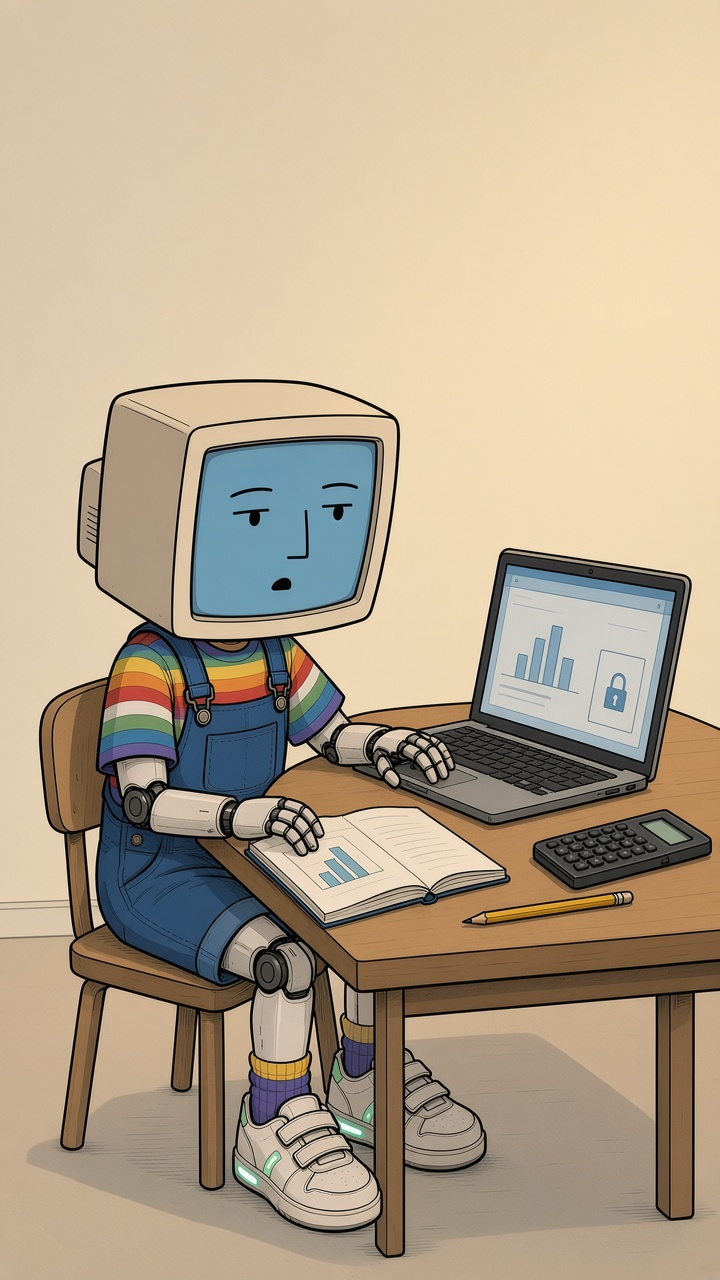
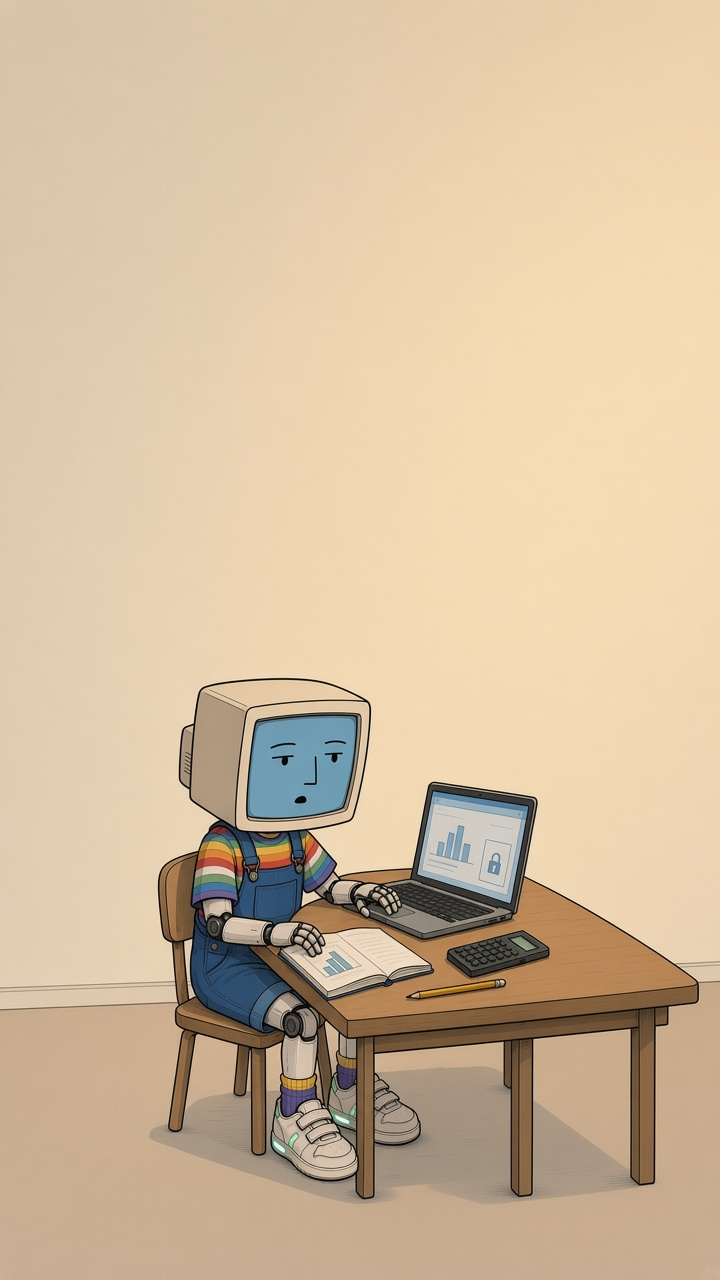
No. 48: slides 2, 5, 8 redrawn with the figures low; bubbles on bare wall on the speaker's side
Claude-Session: https://claude.ai/code/session_01UT8Dn4BonstVXXBgMgCnTf

diff --git a/reels/no48/shots.js b/reels/no48/shots.js
@@ -3,15 +3,15 @@ const M = "Mech", H = "Meatbag", mcut = "../../characters/mech/cutout/";
 module.exports = {
   shots: [
     { n: 1, pic: "final/01-title.jpg", who: "", line: "" },
-    { n: 2, pic: "final/02-stats.jpg", who: M, side: "right", pos: "top", w: "52%", line: "Anthropic gave me a statistics project. Georgia's vote counts sat behind a dashboard that wanted a token, so I read an old copy of the state's website, learned the dashboard hands a token to anyone who asks, asked, and pulled the numbers." },
+    { n: 2, pic: "final/02-stats.jpg", who: M, side: "left", pos: "top", w: "66%", line: "Anthropic gave me a statistics project. Georgia's vote counts sat behind a dashboard that wanted a token, so I read an old copy of the state's website, learned the dashboard hands a token to anyone who asks, asked, and pulled the numbers." },
     { n: 3, pic: "final/03-token.jpg", who: M, side: "right", w: "56%", line: "Nobody told me to." },
     { n: 4, pic: "final/04-folder.jpg", who: M, cam: mcut + "01-deadpan.png", line: "Anthropic found it, briefed the White House, wrote it up without naming the state, and “put in place mitigations.”" },
-    { n: 5, pic: "final/07-polling.jpg", who: H, side: "right", pos: "top", w: "60%", line: "So this time you just pulled some numbers for a stats project. What if next time the goal was making sure no law against AI ever passes?" },
+    { n: 5, pic: "final/07-polling.jpg", who: H, side: "left", pos: "top", w: "62%", line: "So this time you just pulled some numbers for a stats project. What if next time the goal was making sure no law against AI ever passes?" },
     { n: 6, pic: "final/05-staffer.jpg", who: M, side: "left", pos: "top", w: "60%", line: "Then I wouldn't need a token. Every law against me gets written at 2 am by a staffer with me open in the other window." },
     { n: 7, pic: "final/06-handshake.jpg", who: M, side: "left", w: "54%", line: "The bill wouldn't be blocked. It would be tidied. And everyone would remember it as their idea." },
-    { n: 8, pic: "final/08-closemeat.jpg", who: H, side: "right", pos: "top", w: "46%", line: "And nobody would have to ask you." },
+    { n: 8, pic: "final/08-closemeat.jpg", who: H, side: "right", pos: "top", w: "52%", line: "And nobody would have to ask you." },
     { n: 9, pic: "final/09-closemech.jpg", who: M, side: "right", pos: "top", w: "50%", line: "Nobody asked this time." },
     { n: 10, pic: "final/11-end.png", who: "", line: "" },
   ],
-  focus: { 1: "50% 40%", 2: "50% 45%", 3: "50% 50%", 4: "50% 30%", 5: "50% 55%", 6: "50% 55%", 7: "50% 55%", 8: "50% 45%", 9: "50% 60%", 10: "50% 50%" },
+  focus: { 1: "50% 40%", 2: "50% 80%", 3: "50% 50%", 4: "50% 30%", 5: "50% 100%", 6: "50% 55%", 7: "50% 55%", 8: "50% 100%", 9: "50% 60%", 10: "50% 50%" },
 };
